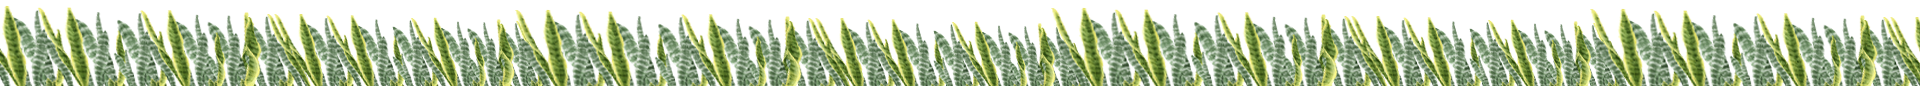
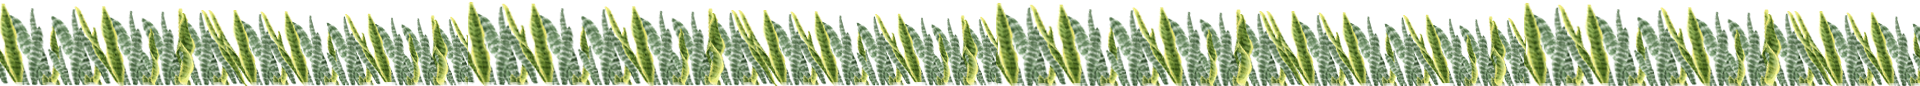
Dia seleccionado + deselecciona dia anterior, movil + escritorio

diff --git a/js/custom.js b/js/custom.js
@@ -56,10 +56,17 @@ jQuery(document).ready(() => {
   img();
   lugar_disponible();
   palmeras();
+  // DEBUG:
+  setTimeout(()=>{
+    console.log("AJAX: ", window.XMLHttpRequest.prototype.send);
+  },3000)
   // movil
   // if (window.innerWith < 588) {
-  jQuery(document).ajaxComplete((e) => {
-    console.log("AJAX");
+  jQuery(document).ajaxStart(function(){
+    console.log("AJAX START!!!!");
+  });
+  jQuery('.calendario').ajaxComplete((e) => {
+    console.log("AJAX COMPLETE!!!!");
     // lugar_disponible();
   });
   // } else {
@@ -105,11 +112,19 @@ function lugar_disponible() {
 
     let numeroDia = item.textContent;
 
-    item.addEventListener('click', () => {
+    item.addEventListener('click', (e) => {
       // si la ventana es menor a 589 busca en lista movil
       let disponiblesDia, existentes;
       let ventana = window.innerWidth;
 
+      //Ilumina el dia clickado + borra fondo  de los demas dias
+      let dias = document.querySelectorAll('.wc-bookings-availability-cal-date');
+      dias.forEach((item)=>{
+        item.style.backgroundColor = 'lightblue';
+        console.log("Ey", item);
+      })
+      item.style.backgroundColor = 'lime';
+      //
       if (ventana > 588) {// escritorio
         disponiblesDia = item.nextElementSibling
         existentes = extrae_disponibles(disponiblesDia.childNodes);
@@ -278,27 +293,48 @@ function palmeras() {
   let palmera3 = document.querySelector(".flotante-3");
   palmera1.animate([
     { transform: 'rotate(0deg) translateX(546%)' },
+    { transform: 'rotate(0.5deg) translateX(546%)' },
+    { transform: 'rotate(0deg) translateX(546%)' },
+    { transform: 'rotate(0.5deg) translateX(546%)' },
+    { transform: 'rotate(0.75deg) translateX(546%)' },
     { transform: 'rotate(1deg) translateX(546%)' },
     { transform: 'rotate(0deg) translateX(546%)' },
-
   ], {
-    duration: 15000,
+    duration: 13000,
     iterations: Infinity
   });
   palmera2.animate([
     { transform: 'rotate(0deg) translateX(285%)' },
+    { transform: 'rotate(0.5deg) translateX(285%)' },
+    { transform: 'rotate(0deg) translateX(285%)' },
+    { transform: 'rotate(0.5deg) translateX(285%)' },
+    { transform: 'rotate(0.75deg) translateX(285%)' },
     { transform: 'rotate(1deg) translateX(285%)' },
-    { transform: 'rotate(0deg) translateX(285%)' }
+    { transform: 'rotate(0deg) translateX(285%)' },
   ], {
-    duration: 15000,
+    duration: 14000,
     iterations: Infinity
   });
   palmera3.animate([
     { transform: 'rotate(0deg) translateX(4%)' },
+    { transform: 'rotate(0.5deg) translateX(4%)' },
+    { transform: 'rotate(0deg) translateX(4%)' },
+    { transform: 'rotate(0.5deg) translateX(4%)' },
+    { transform: 'rotate(0.75deg) translateX(4%)' },
     { transform: 'rotate(1deg) translateX(4%)' },
-    { transform: 'rotate(0deg) translateX(4%)' }
+    { transform: 'rotate(0deg) translateX(4%)' },
   ], {
     duration: 15000,
     iterations: Infinity
   });
+
+  // Inicio palmeras
+  let flotante = document.querySelectorAll('.flotante');
+  setTimeout(() => {
+
+    flotante.forEach((item) => {
+      item.style.opacity = 1;
+    });
+
+  },2000)
 }

diff --git a/css/custom.css b/css/custom.css
@@ -207,6 +207,8 @@ label {
   padding: 0 !important;
   border: 1px solid var(--color-yaya) !important;
   color: var(--color-dark);
+  background-color: lightblue;
+
 }
 .wc-bookings-availability-cal-date:hover {
   background-color: rgba(0,0,0,0.25);
@@ -313,12 +315,12 @@ label {
 }
 /* palmeras */
 .flotante {
-  transition: 2s;
+  transition: 3s;
   transform-origin: center;
   position: absolute !important;
   z-index: 1;
   width: auto;
-  opacity: 1 !important;
+  opacity: 0;
 }
 .flotante img {
   height: 100%;
@@ -332,12 +334,12 @@ label {
   -moz-transform: var(--palmera-1);
   -ms-transform: var(--palmera-1);
   -o-transform: var(--palmera-1);
-  bottom: 57%;
+  bottom: 53%;
 }
 .flotante-2 {
   width: 14% !important;
   transform: var(--palmera-2);
-  webkit-transform: var(--palmera-2);
+  -webkit-transform: var(--palmera-2);
   -moz-transform: var(--palmera-2);
   -ms-transform: var(--palmera-2);
   -o-transform: var(--palmera-2);
@@ -350,7 +352,7 @@ label {
   -moz-transform: var(--palmera-3);
   -ms-transform: var(--palmera-3);
   -o-transform: var(--palmera-3);
-  bottom: 52%;
+  bottom: 47%;
 }
 /*  */
 /* responsive */
